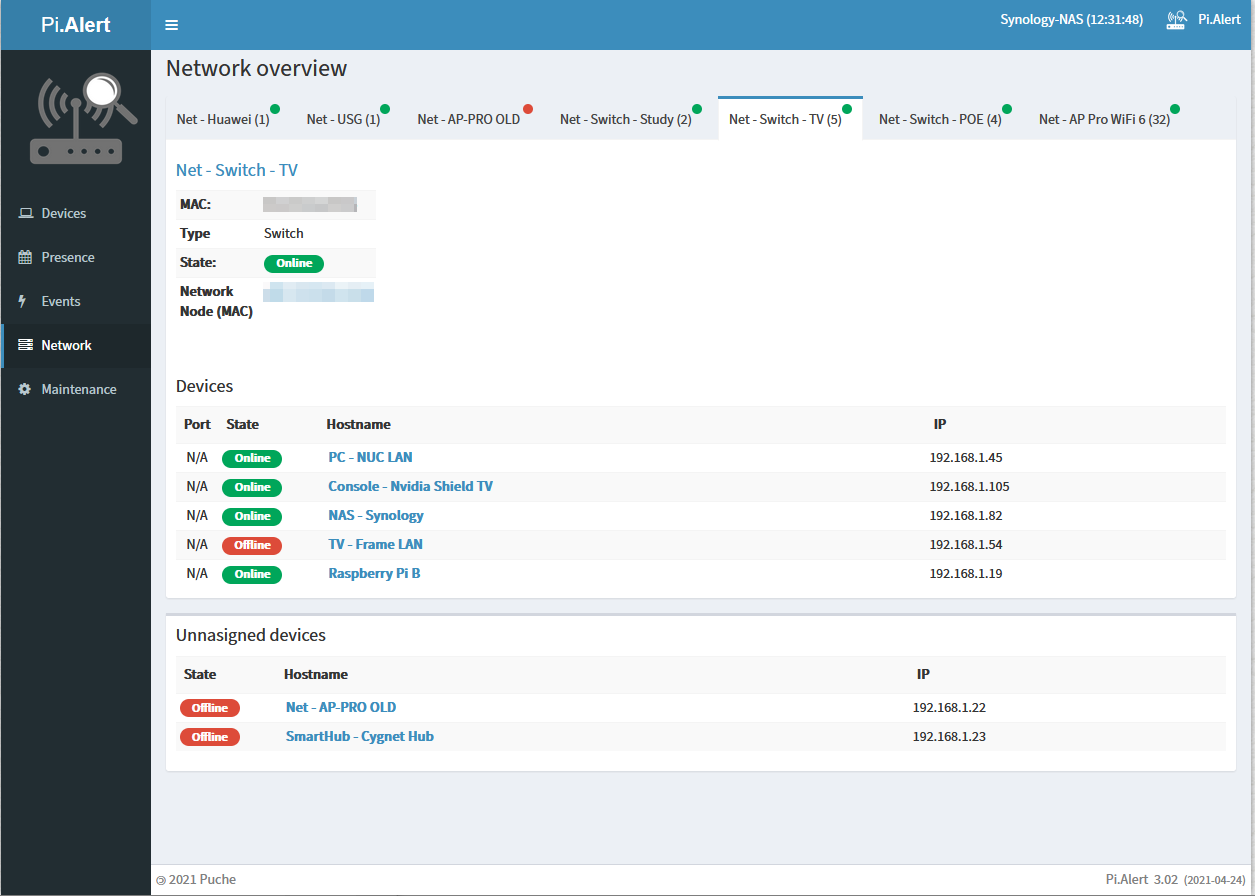
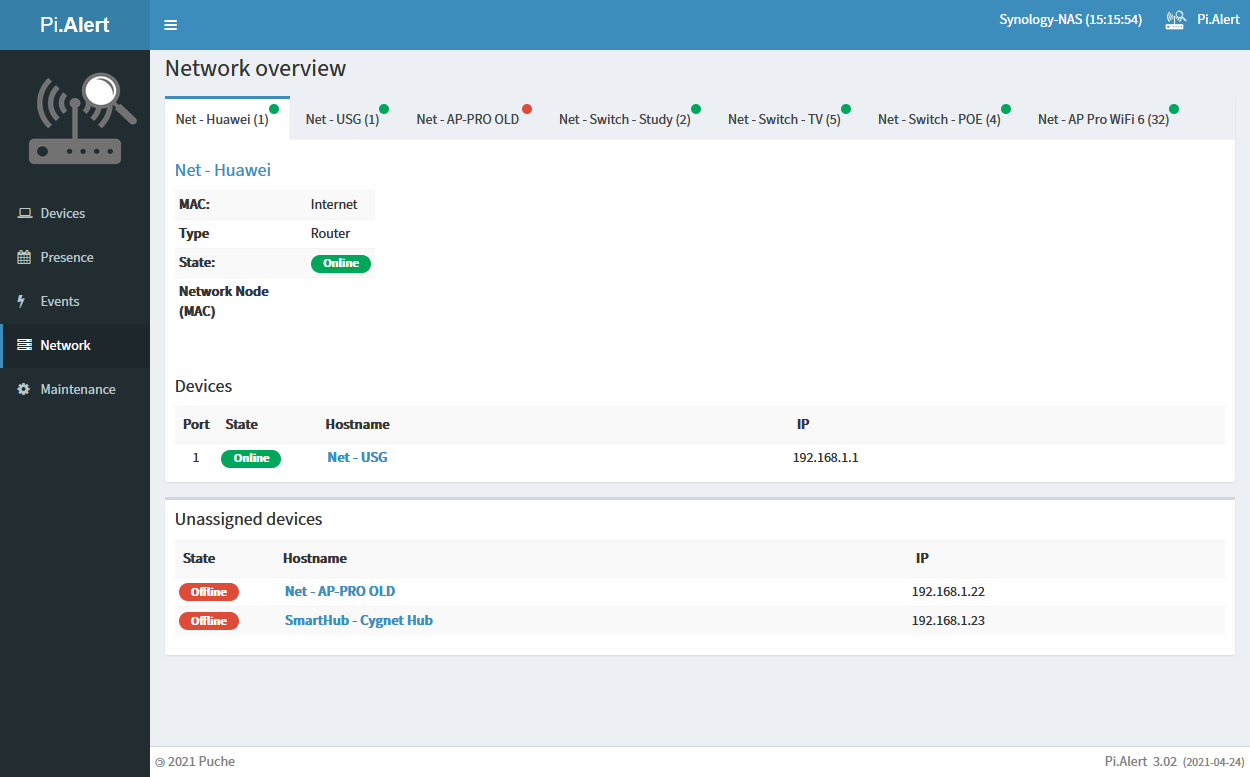
typo fix

diff --git a/front/network.php b/front/network.php
@@ -376,7 +376,7 @@
                           <div class="box box-aqua box-body">
                             <section> 
                               <h4>
-                                '.$pia_lang['Network_UnnasignedDevices'].'
+                                '.$pia_lang['Network_UnassignedDevices'].'
                               </h4>
                               <table class="table table-striped">
                                 <tbody>

diff --git a/front/php/templates/language/en_us.php b/front/php/templates/language/en_us.php
@@ -334,6 +334,6 @@ $pia_lang['Network_ManageDel_Submit'] = 'Delete';
 $pia_lang['Network_Table_State'] = 'State';
 $pia_lang['Network_Table_Hostname'] = 'Hostname';
 $pia_lang['Network_Table_IP'] = 'IP';
-$pia_lang['Network_UnnasignedDevices'] = 'Unnasigned devices';
+$pia_lang['Network_UnassignedDevices'] = 'Unassigned devices';
 
 ?>
